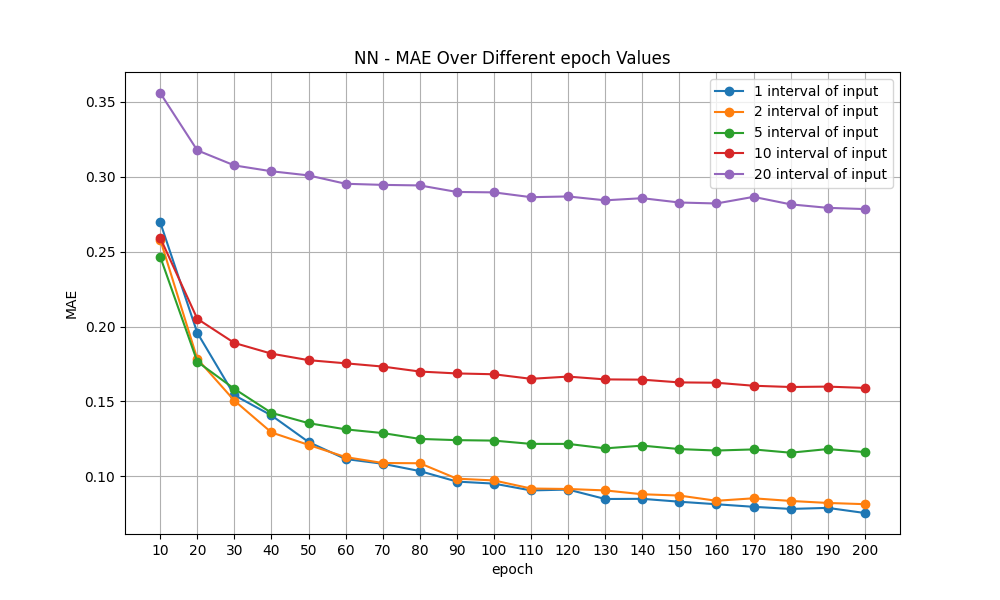
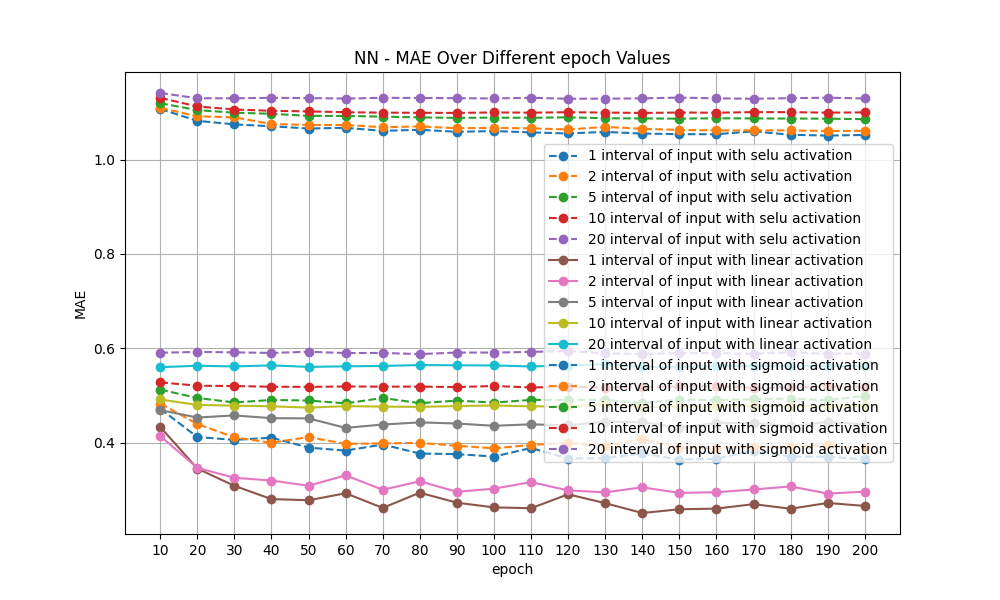
basic

diff --git a/tools/utils.py b/tools/utils.py
@@ -116,7 +116,7 @@ def simple_resnet_block(input_tensor, units, use_projection=False):
     return x
 
 
-def build_nn_model(input_dim, output_dim):
+def build_res_model(input_dim, output_dim, activate):
     inputs = Input(shape=(input_dim,))
     x = Dense(256, activation='linear')(inputs)
 
@@ -124,14 +124,14 @@ def build_nn_model(input_dim, output_dim):
     x = simple_resnet_block(x, 128, use_projection=True)
     # x = Dense(128, activation='linear')(x)
 
-    outputs = Dense(output_dim, activation='linear')(x)
+    outputs = Dense(output_dim, activation=activate)(x)
 
     model = Model(inputs, outputs)
     model.compile(optimizer=Adam(learning_rate=0.001), loss='mse')
     return model
 
 
-def test_nn(X, y, interval):
+def test_res(X, y, interval, activate):
     scaler_X = StandardScaler()
     scaler_y = StandardScaler()
 
@@ -148,7 +148,59 @@ def test_nn(X, y, interval):
     epochs_list = range(10, 210, 10)
 
     for epochs in epochs_list:
-        model = build_nn_model(input_dim, output_dim)
+        model = build_res_model(input_dim, output_dim, activate)
+
+        model.fit(X_train, y_train, epochs=epochs, batch_size=1024, verbose=0)
+
+        y_pred = model.predict(X_test)
+
+        y_pred_inverse = scaler_y.inverse_transform(y_pred)
+        y_test_inverse = scaler_y.inverse_transform(y_test)
+
+        mse = mean_squared_error(y_test_inverse, y_pred_inverse)
+        mae = mean_absolute_error(y_test_inverse, y_pred_inverse)
+        r2 = r2_score(y_test_inverse, y_pred_inverse)
+
+        mse_list.append(mse)
+        mae_list.append(mae)
+        r2_list.append(r2)
+
+    return mse_list, mae_list, r2_list
+
+
+def build_nn_model(input_dim, output_dim, activate):
+    inputs = Input(shape=(input_dim,))
+    x = Dense(256, activation='linear')(inputs)
+
+    # x = simple_resnet_block(x, 256)
+    x = Dense(128, activation='linear')(x)
+    x = Dense(128, activation='linear')(x)
+
+    outputs = Dense(output_dim, activation=activate)(x)
+
+    model = Model(inputs, outputs)
+    model.compile(optimizer=Adam(learning_rate=0.001), loss='mse')
+    return model
+
+
+def test_nn(X, y, interval, activate):
+    scaler_X = StandardScaler()
+    scaler_y = StandardScaler()
+
+    X = scaler_X.fit_transform(X)
+    y = scaler_y.fit_transform(y)
+    X_train, X_test, y_train, y_test = train_test_split(X, y, test_size=0.2, random_state=42)
+
+    mse_list = []
+    mae_list = []
+    r2_list = []
+
+    input_dim = X_train.shape[1]
+    output_dim = y_train.shape[1]
+    epochs_list = range(10, 210, 10)
+
+    for epochs in epochs_list:
+        model = build_nn_model(input_dim, output_dim, activate)
 
         model.fit(X_train, y_train, epochs=epochs, batch_size=1024, verbose=0)
 
@@ -169,15 +221,14 @@ def test_nn(X, y, interval):
 
 
 def draw(data, algorithm, matrix):
-    if algorithm not in data or matrix not in data[algorithm]:
+    """if algorithm not in data or matrix not in data[algorithm]:
         print(f"No data available for algorithm '{algorithm}' and matrix '{matrix}'.")
-        return
-
-    matrix_data = data[algorithm][matrix]
+        return"""
 
     plt.figure(figsize=(10, 6))
 
     if algorithm == 'KNN':
+        matrix_data = data[algorithm][matrix]
         for key in matrix_data:
             plt.plot(range(1, len(matrix_data[key]) + 1), matrix_data[key], label=f'{key} interval of input',
                      marker='o',
@@ -191,6 +242,7 @@ def draw(data, algorithm, matrix):
         plt.savefig(f'result/fig/knn/{algorithm}-{matrix}.png')
         plt.show()
     if algorithm == 'RF':
+        matrix_data = data[algorithm][matrix]
         for key in matrix_data:
             plt.plot(range(10, 10 * len(matrix_data[key]) + 10, 10), matrix_data[key], label=f'{key} interval of input',
                      marker='o',
@@ -203,18 +255,28 @@ def draw(data, algorithm, matrix):
         plt.grid(True)
         plt.savefig(f'result/fig/rf/{algorithm}-{matrix}.png')
         plt.show()
-    if algorithm == 'NN':
-        for key in matrix_data:
-            plt.plot(range(10, 10 * len(matrix_data[key]) + 10, 10), matrix_data[key], label=f'{key} interval of input',
-                     marker='o',
-                     linestyle='-')
+    if algorithm == 'RES' or algorithm == 'NN':
+        res_data = data[algorithm]
+        for activate in res_data:
+            matrix_data = res_data[activate][matrix]
+            for key in matrix_data:
+                if activate == 'linear':
+                    plt.plot(range(10, 10 * len(matrix_data[key]) + 10, 10), matrix_data[key],
+                             label=f'{key} interval of input with {activate} activation',
+                             marker='o',
+                             linestyle='-')
+                else:
+                    plt.plot(range(10, 10 * len(matrix_data[key]) + 10, 10), matrix_data[key],
+                             label=f'{key} interval of input with {activate} activation',
+                             marker='o',
+                             linestyle='--')
         plt.title(f'{algorithm} - {matrix} Over Different epoch Values')
         plt.xlabel('epoch')
         plt.ylabel(matrix)
         plt.xticks(range(10, 210, 10))
         plt.legend()
         plt.grid(True)
-        plt.savefig(f'result/fig/nn/{algorithm}-{matrix}.png')
+        plt.savefig(f'result/fig/{algorithm}/{algorithm}-{matrix}.png')
         plt.show()
 
 

diff --git a/main.py b/main.py
@@ -6,20 +6,29 @@ from sklearn.metrics import r2_score
 import matplotlib.pyplot as plt
 import time
 
-from tools.utils import read_dataset, test_knn, draw, test_rf, test_nn
+from tools.utils import read_dataset, test_knn, draw, test_rf, test_res, test_nn
 
 
 if __name__ == '__main__':
     input_interval = [1, 2, 5, 10, 20]
     algorithms = ['NN']
     matrices = ['MSE', 'MAE', 'R2']
+    parameters = ['selu', 'linear', 'sigmoid']
     result = {}
     for algorithm in algorithms:
         result[algorithm] = {}
-        for matrix in matrices:
-            result[algorithm][matrix] = {}
-            for interval in input_interval:
-                result[algorithm][matrix][interval] = []
+        if algorithm != 'RES' and algorithm != 'NN':
+            for matrix in matrices:
+                result[algorithm][matrix] = {}
+                for interval in input_interval:
+                    result[algorithm][matrix][interval] = []
+        else:
+            for parameter in parameters:
+                result[algorithm][parameter] = {}
+                for matrix in matrices:
+                    result[algorithm][parameter][matrix] = {}
+                    for interval in input_interval:
+                        result[algorithm][parameter][matrix][interval] = []
     print(result)
     for n in input_interval:
         X, y = read_dataset(n)
@@ -31,10 +40,17 @@ if __name__ == '__main__':
         result['RF']['MSE'][n] = rf_mse
         result['RF']['MAE'][n] = rf_mae
         result['RF']['R2'][n] = rf_r2"""
-        nn_mse, nn_mae, nn_r2 = test_nn(X, y, n)
-        result['NN']['MSE'][n] = nn_mse
-        result['NN']["MAE"][n] = nn_mae
-        result['NN']["R2"][n] = nn_r2
+        """for activate in parameters:
+            res_mse, res_mae, res_r2 = test_res(X, y, n, activate)
+            result['RES'][activate]['MSE'][n] = res_mse
+            result['RES'][activate]["MAE"][n] = res_mae
+            result['RES'][activate]["R2"][n] = res_r2"""
+        for activate in parameters:
+            res_mse, res_mae, res_r2 = test_nn(X, y, n, activate)
+            result['NN'][activate]['MSE'][n] = res_mse
+            result['NN'][activate]["MAE"][n] = res_mae
+            result['NN'][activate]["R2"][n] = res_r2
+
 
     # print(result)
     for algorithm in algorithms:
